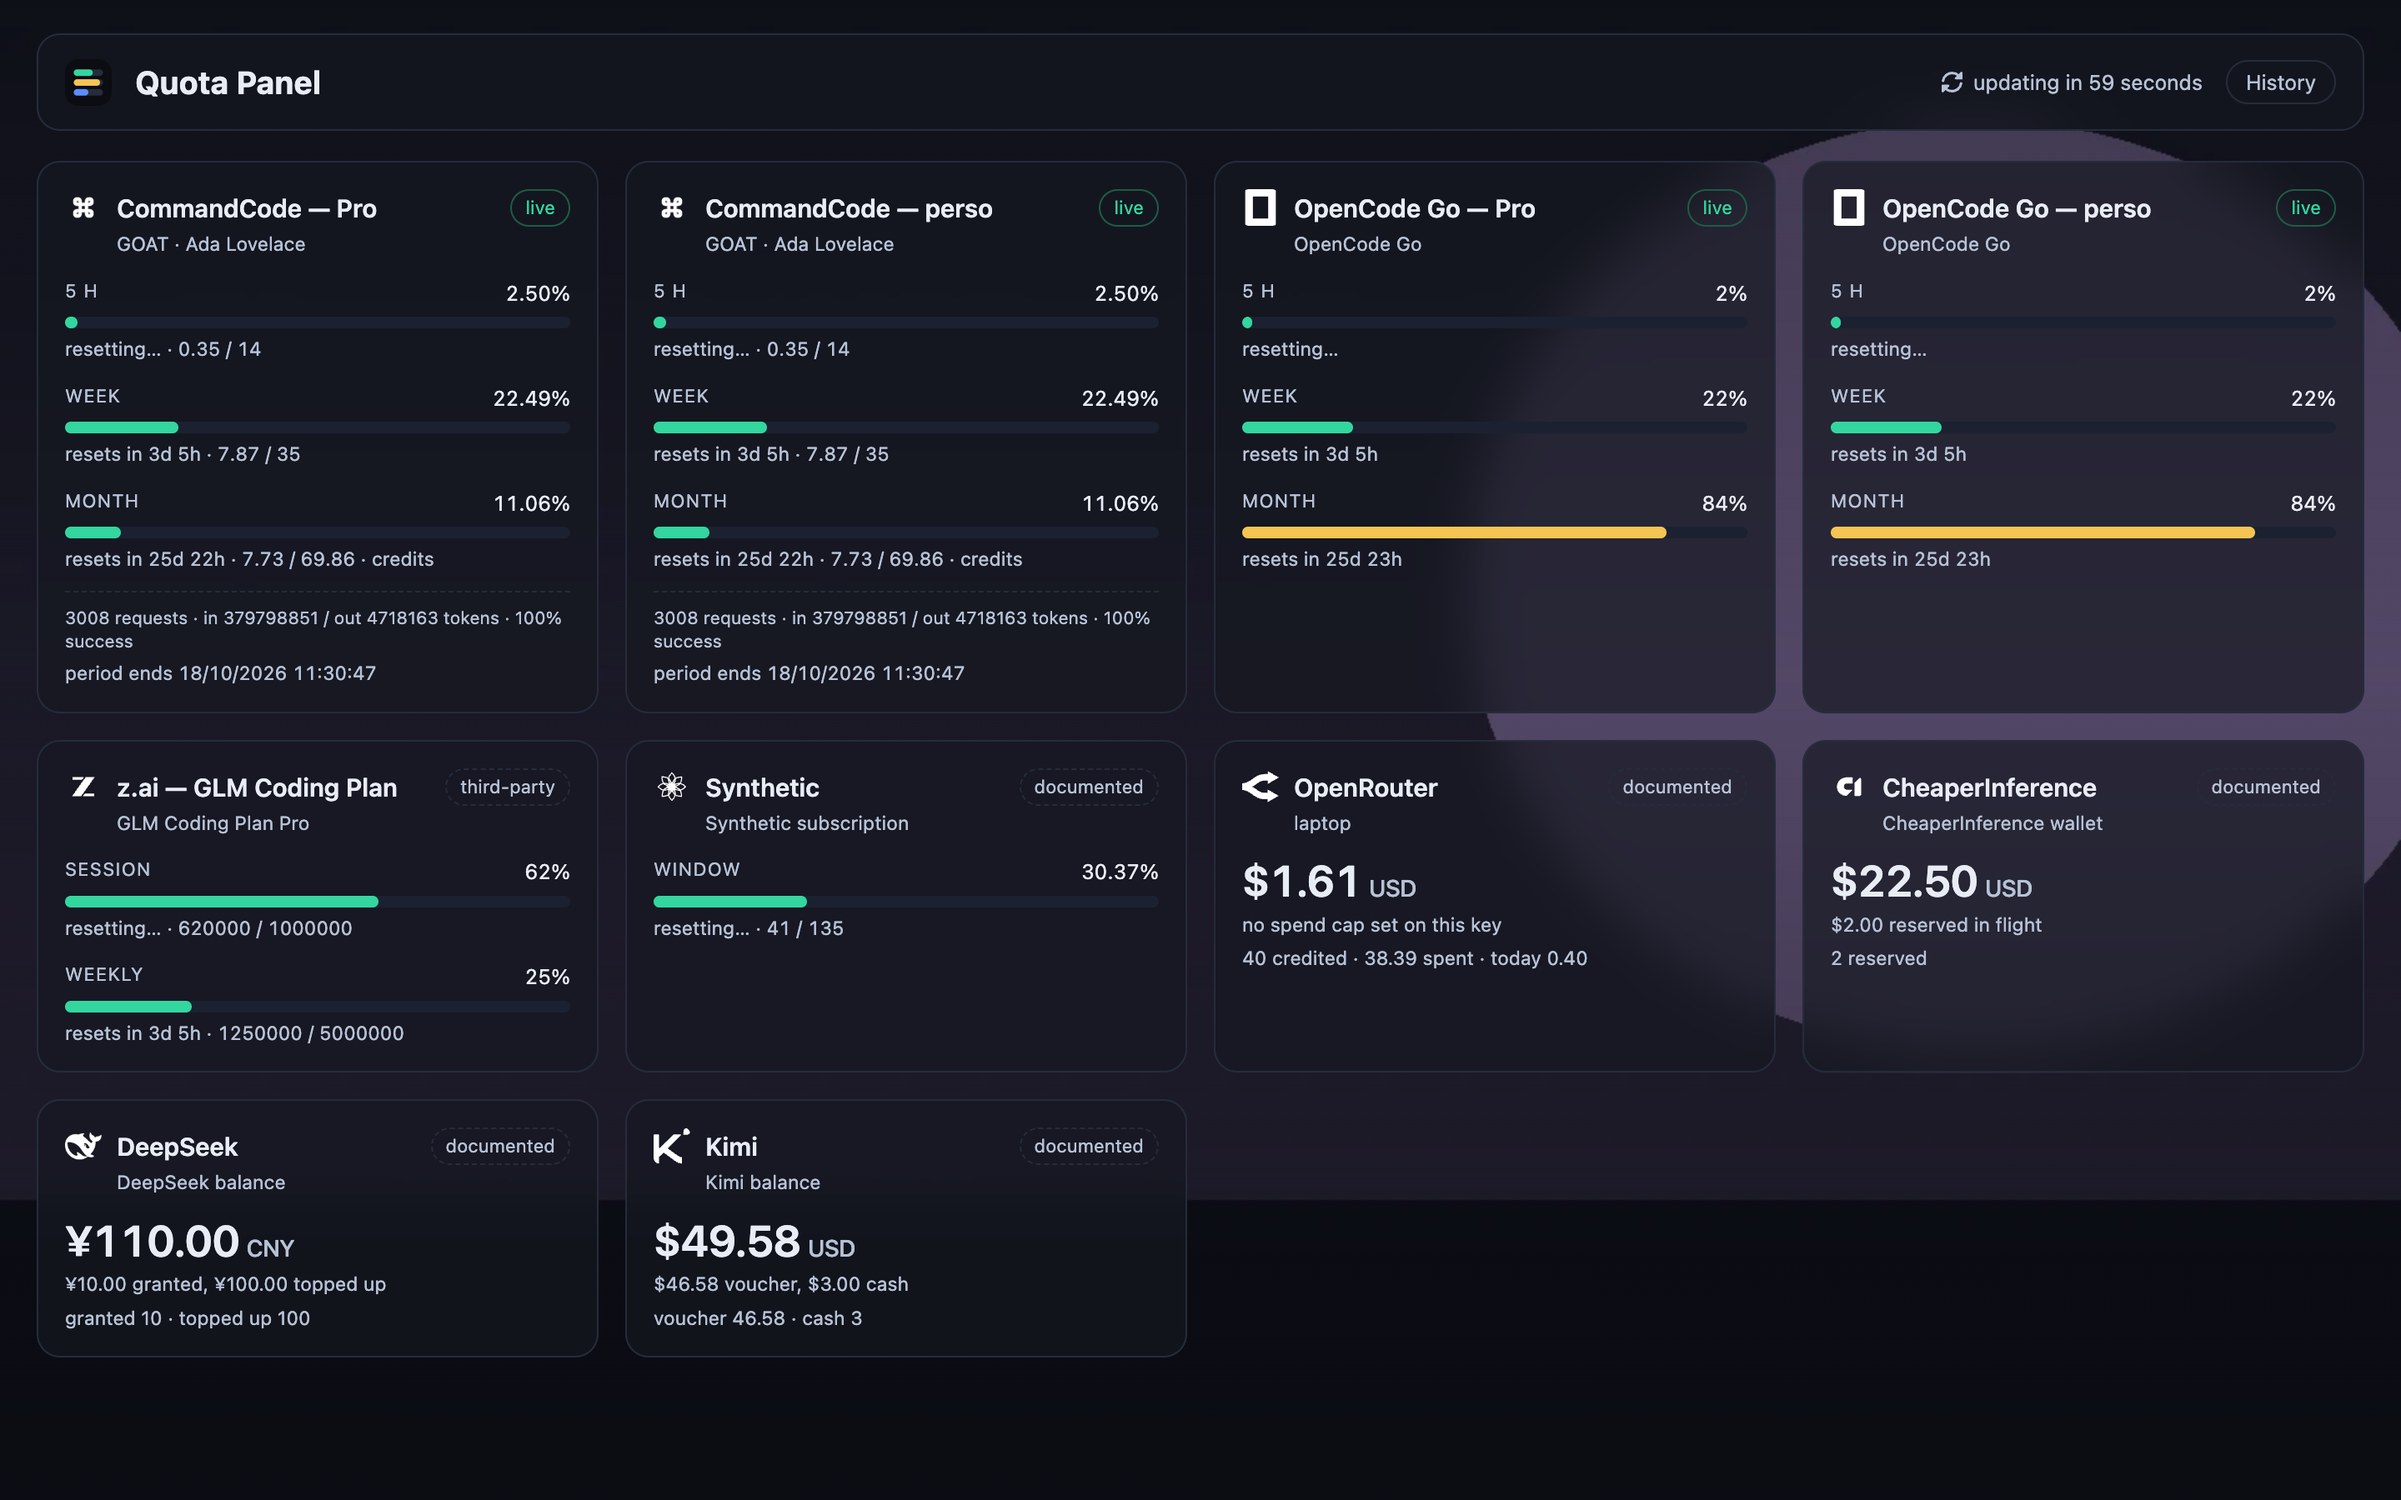
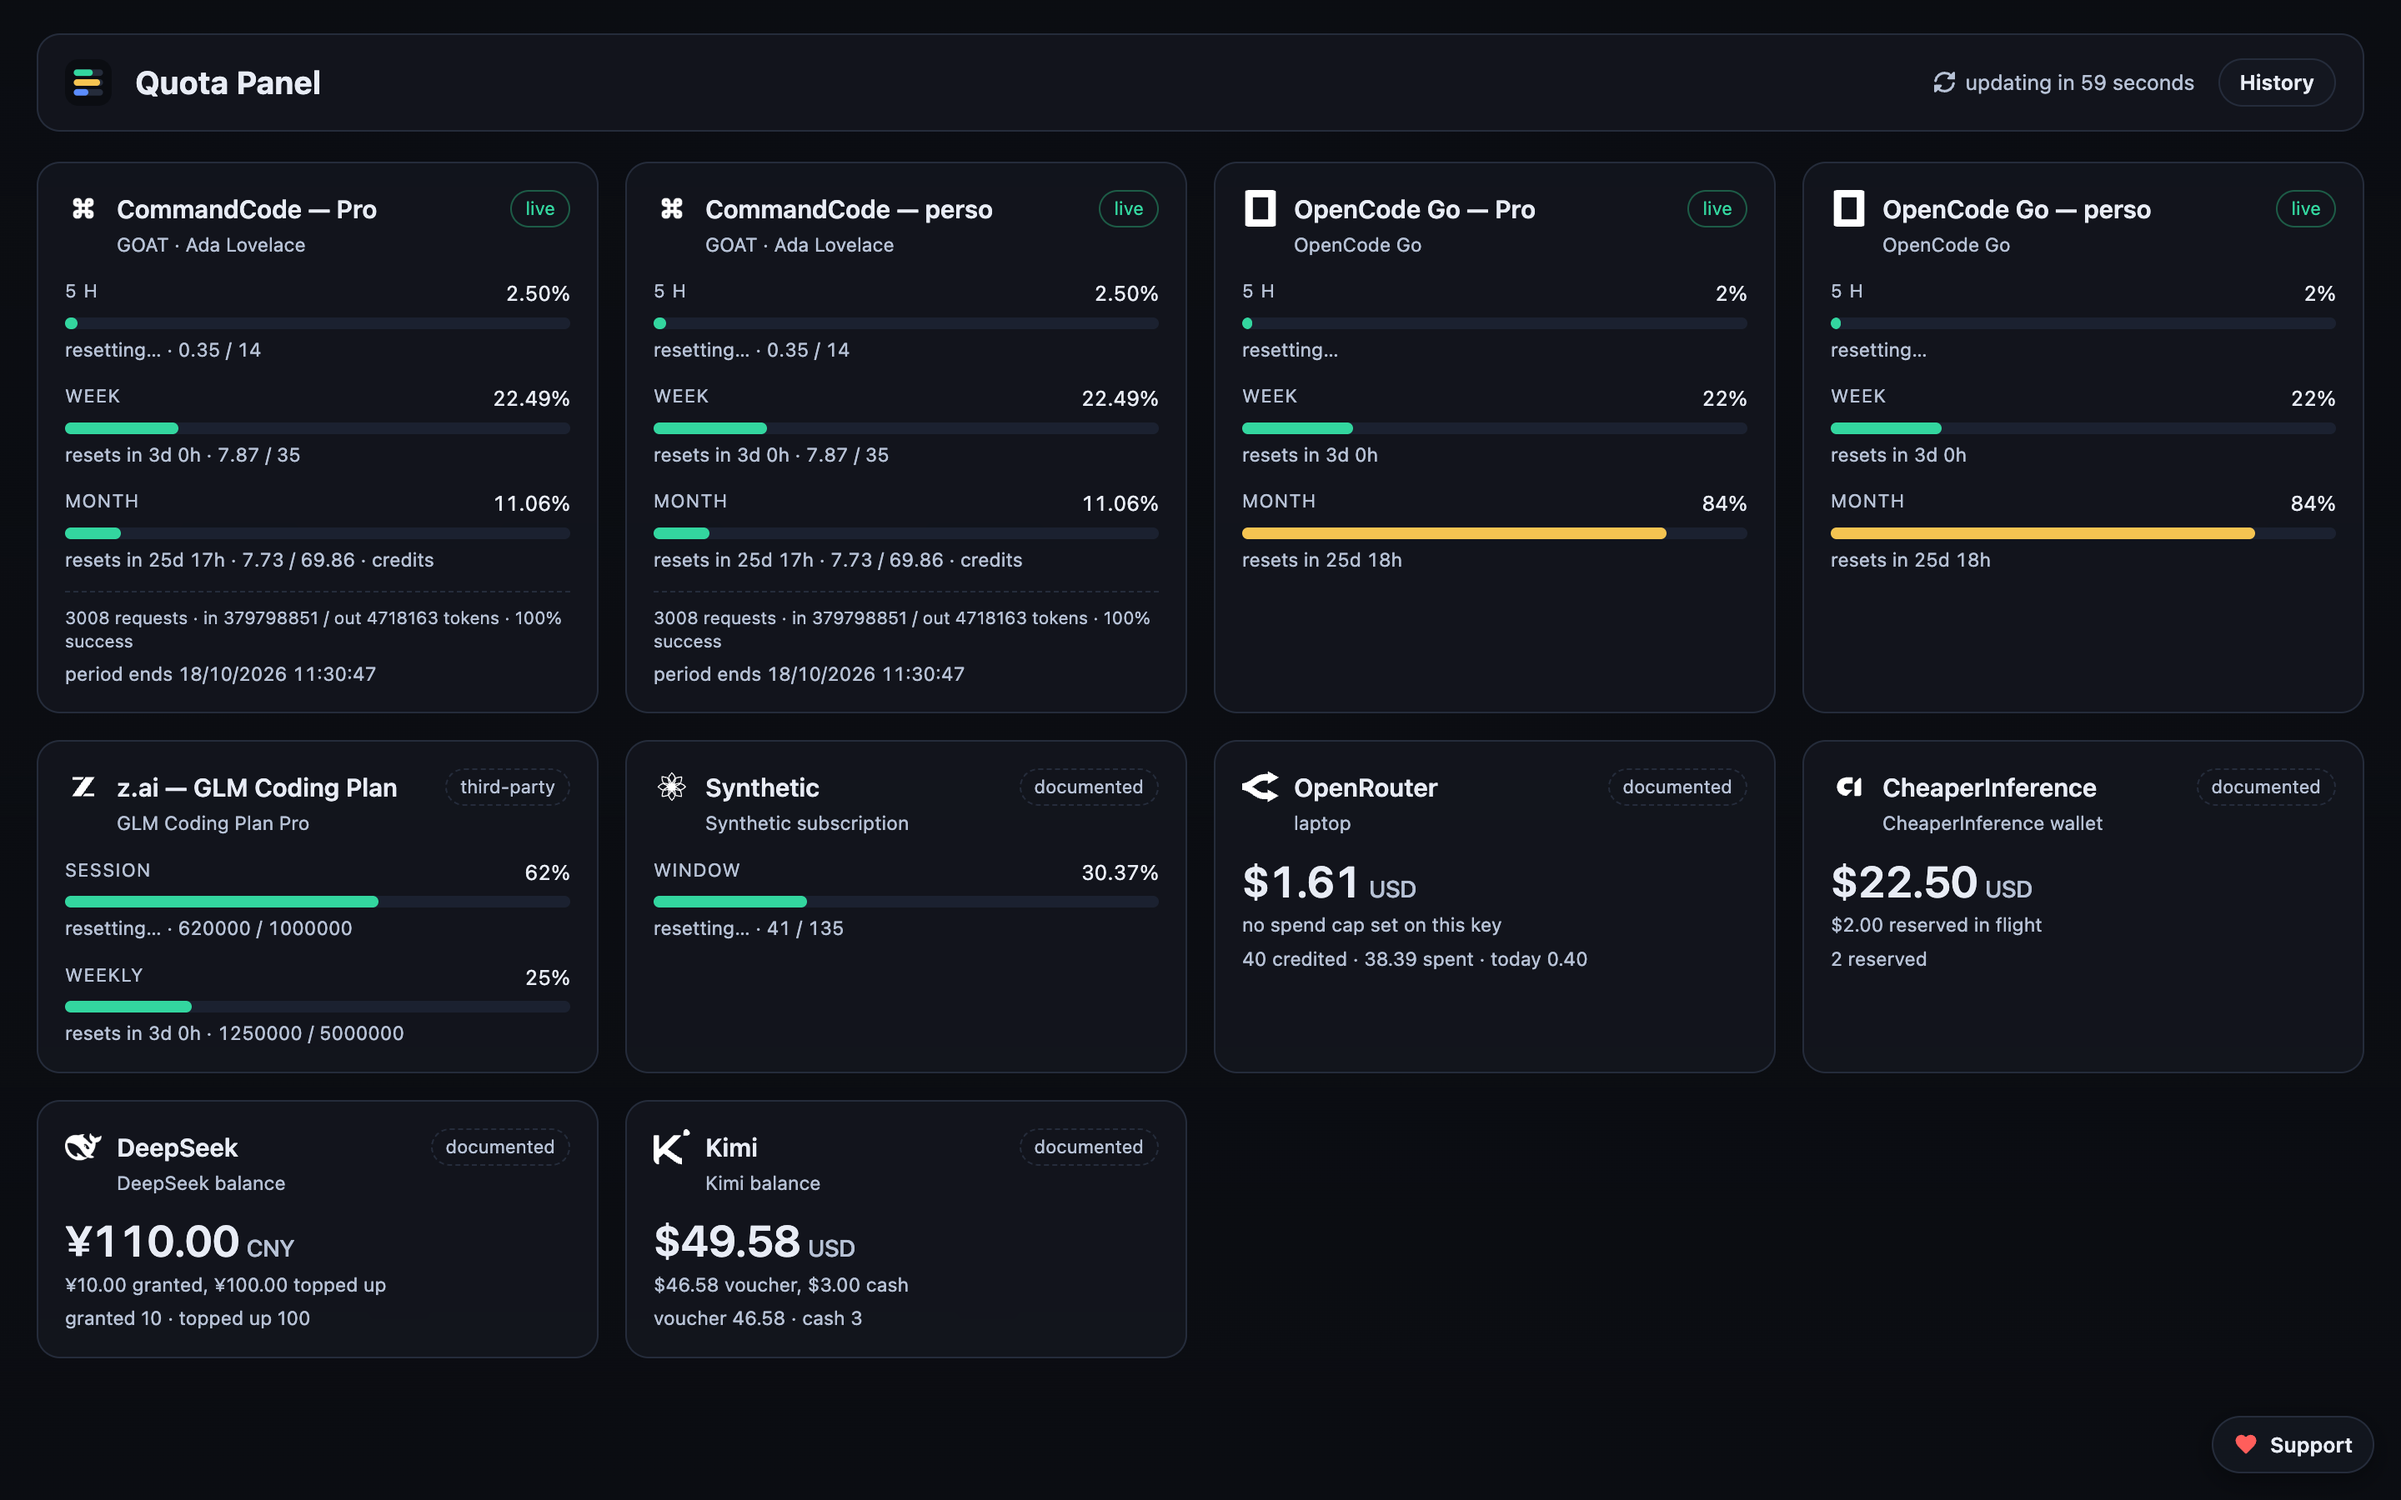
ui: make the header pills more visible
The History / Live panel links sat at --muted with a hairline border and
transparent fill, easy to miss over the artwork. Give them the support
button's resting treatment: --fg text, a translucent card fill, 600
weight and slightly larger padding (hover unchanged). Re-shoot both
screenshots and extend the page assertions.

diff --git a/static/index.html b/static/index.html
@@ -102,8 +102,8 @@
   #feed.stale{color:var(--warn)}
   #feed.down{color:var(--hot)}
   /* The entry point to the optional history page, when that layer is on. */
-  .nav{font-size:12.5px;color:var(--muted);text-decoration:none;border:1px solid var(--line);
-       border-radius:999px;padding:3px 11px}
+  .nav{font-size:12.5px;color:var(--fg);text-decoration:none;border:1px solid var(--line);
+       border-radius:999px;padding:4px 12px;background:rgba(var(--card),.8);font-weight:600}
   .nav:hover{color:#fff;border-color:var(--accent)}
   @media (prefers-reduced-motion:no-preference){ .nav{transition:color .15s,border-color .15s} }
   /* The support link: fixed, small, out of the reading column. An anchor, not a resource load. */

diff --git a/static/history.html b/static/history.html
@@ -54,8 +54,8 @@
   .muted{color:var(--muted);font-size:12.5px}
   /* Same position as the live panel's entry point: the last thing in the header, flush right. */
   .spacer{margin-left:auto}
-  .nav{font-size:12.5px;color:var(--muted);text-decoration:none;border:1px solid var(--line);
-       border-radius:999px;padding:3px 11px}
+  .nav{font-size:12.5px;color:var(--fg);text-decoration:none;border:1px solid var(--line);
+       border-radius:999px;padding:4px 12px;background:rgba(var(--card),.8);font-weight:600}
   .nav:hover{color:#fff;border-color:var(--accent)}
   @media (prefers-reduced-motion:no-preference){ .nav{transition:color .15s,border-color .15s} }
   main{display:flex;flex-direction:column;gap:16px}

diff --git a/tests/smoke.py b/tests/smoke.py
@@ -216,9 +216,11 @@ def ui_checks():
     check("the page carries the support link to Ko-fi",
           "https://ko-fi.com/realAbitbol" in page and 'rel="noopener noreferrer"' in page,
           "the funding link is part of the live page too")
-    check("the history link lights up on hover like the support button",
-          ".nav:hover{color:#fff;border-color:var(--accent)}" in page,
-          "the header link must light up on hover")
+    check("the history link reads as a button and lights up on hover",
+          ".nav{font-size:12.5px;color:var(--fg)" in page
+          and "background:rgba(var(--card),.8)" in page
+          and ".nav:hover{color:#fff;border-color:var(--accent)}" in page,
+          "the header link must read as a pill and light up on hover")
     # One flag from /api/quota reveals the entry point, and that is the whole cost of an
     # optional feature on the live page: a second feed here would make every install pay for a
     # layer most of them leave off.

diff --git a/tests/history.py b/tests/history.py
@@ -1040,9 +1040,11 @@ def page_checks():
           "badgeHtml(s.provider, seriesLabel(s))" in page,
           "the legend must show the provider mark, not only a colour dot")
 
-    check("the live-panel link lights up on hover like the support button",
-          ".nav:hover{color:#fff;border-color:var(--accent)}" in page,
-          "the header link must light up on hover")
+    check("the live-panel link reads as a button and lights up on hover",
+          ".nav{font-size:12.5px;color:var(--fg)" in page
+          and "background:rgba(var(--card),.8)" in page
+          and ".nav:hover{color:#fff;border-color:var(--accent)}" in page,
+          "the header link must read as a pill and light up on hover")
     check("the sparkline breaks on gaps and the donut ink follows the slice",
           "previous + 1" in page and "function labelInk" in page,
           "a gap drawn as a line invents data, and fixed ink vanishes on dark slices")
